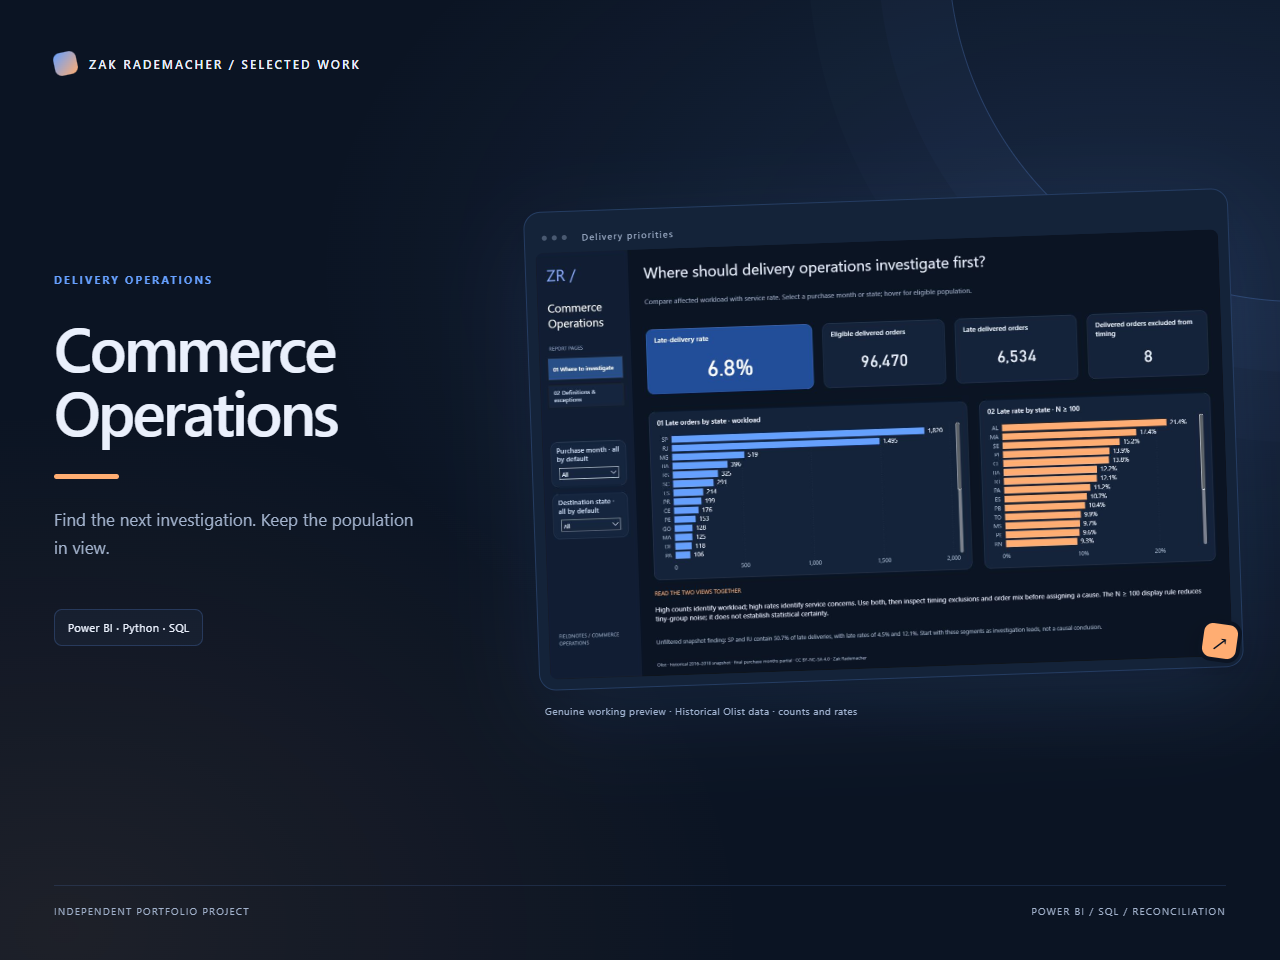
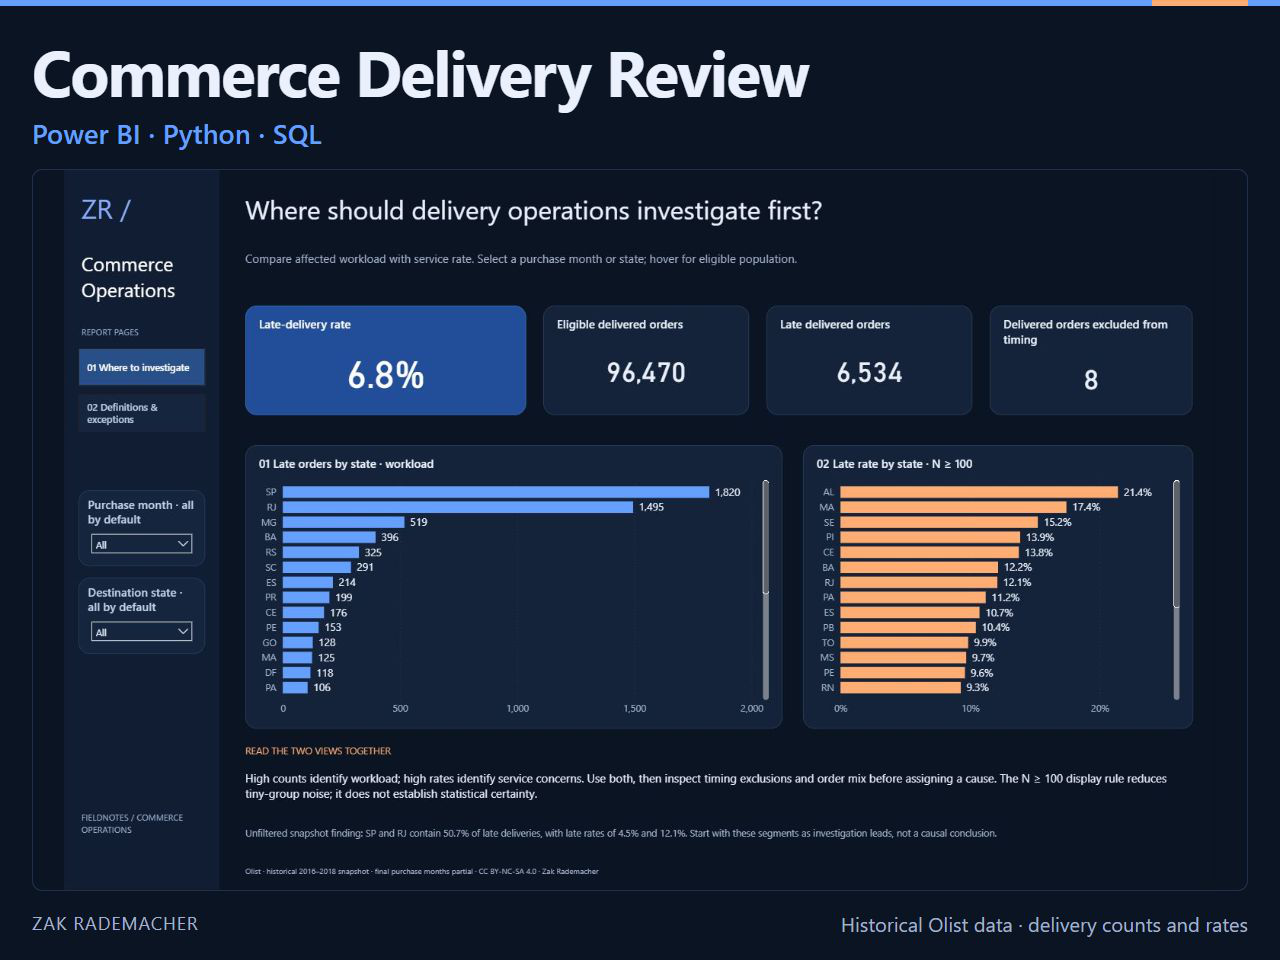
Use a clear, screenshot-led portfolio cover

diff --git a/presentation/cover-template.html b/presentation/cover-template.html
@@ -1,3 +1,3 @@
-<!doctype html><html lang="en"><meta charset="utf-8"><title>@@title@@ — portfolio cover</title><style>
-*{box-sizing:border-box}html,body{margin:0;width:100%;height:100%;overflow:hidden}body{font-family:'Segoe UI',Arial,sans-serif;background:@@canvas@@;color:@@ink@@}.stage{height:100%;padding:52px 54px;position:relative;isolation:isolate;background:radial-gradient(ellipse at 88% 28%,@@primary@@25,transparent 51%),radial-gradient(ellipse at 5% 97%,@@accent@@14,transparent 40%)}.stage:before{content:'';position:absolute;width:700px;height:700px;right:-370px;top:-400px;border:1px solid @@primary@@40;border-radius:50%;box-shadow:0 0 0 70px @@primary@@07,0 0 0 140px @@primary@@04;z-index:-1}.brand{font-size:12px;letter-spacing:2.1px;font-weight:600;display:flex;align-items:center;gap:12px}.brand i{display:block;width:23px;height:23px;background:linear-gradient(140deg,@@primary@@,@@accent@@);border-radius:7px;transform:rotate(-12deg)}main{height:calc(100% - 88px);display:grid;grid-template-columns:39% 61%;align-items:center;gap:20px}.copy{padding-right:25px;animation:copy-in .9s cubic-bezier(.16,.8,.2,1) both}.eyebrow{font-size:11px;color:@@primary@@;font-weight:700;letter-spacing:2px;margin-bottom:28px}h1{font-size:62px;line-height:1.04;font-weight:550;letter-spacing:-2.8px;margin:0 0 26px;max-width:450px}h1:after{content:'';display:block;height:5px;width:65px;border-radius:4px;background:@@accent@@;margin-top:30px}.description{font-size:17px;line-height:1.7;max-width:360px;color:@@muted@@}.format{display:inline-block;margin-top:30px;padding:10px 13px;border:1px solid @@primary@@35;background:@@primary@@0C;border-radius:8px;font-size:11px;letter-spacing:.4px}.frame-wrap{position:relative;perspective:1500px;padding:0 10px 0 0;animation:frame-in 1.1s .1s cubic-bezier(.16,.8,.2,1) both}.frame{padding:10px;border:1px solid @@primary@@35;border-radius:17px;background:@@surface@@;box-shadow:0 30px 85px @@primary@@19,0 4px 14px #00000012;transform:rotate(-2deg)}.chrome{height:30px;display:flex;align-items:center;gap:5px;padding-left:7px}.chrome i{height:5px;width:5px;background:@@muted@@60;border-radius:50%}.chrome span{font-size:9px;letter-spacing:1.2px;margin-left:10px;color:@@muted@@}img{width:100%;max-height:650px;display:block;object-fit:contain;object-position:top;border-radius:8px}.caption{font-size:10px;color:@@muted@@;letter-spacing:.4px;margin:25px 0 0 14px}.tag{position:absolute;right:5px;bottom:56px;width:42px;height:42px;background:@@accent@@;color:@@canvas@@;border:4px solid @@canvas@@;border-radius:13px;display:grid;place-items:center;font-size:23px;box-shadow:0 8px 24px #0002;transform:rotate(8deg)}footer{position:absolute;bottom:42px;left:54px;right:54px;display:flex;justify-content:space-between;border-top:1px solid @@primary@@25;padding-top:18px;font-size:10px;letter-spacing:1.2px;color:@@muted@@}@keyframes copy-in{from{opacity:0;transform:translateY(22px)}to{opacity:1;transform:none}}@keyframes frame-in{from{opacity:0;transform:translate(35px,38px) rotate(5deg) scale(.94)}to{opacity:1;transform:none}}@media(max-height:760px){.stage{padding-top:35px}main{grid-template-columns:39% 61%}h1{font-size:52px}.eyebrow{margin-bottom:22px}.description{font-size:15px}.format{margin-top:15px}img{max-height:455px}footer{bottom:25px}.frame-wrap{padding-left:10px}.caption{margin-top:18px}}@media(prefers-reduced-motion:reduce){*{animation:none!important;transition:none!important}}
-</style><div class="stage"><div class="brand"><i></i>ZAK RADEMACHER / SELECTED WORK</div><main><section class="copy"><div class="eyebrow">@@eyebrow@@</div><h1>@@title@@</h1><p class="description">@@description@@</p><span class="format">@@format@@</span></section><section class="frame-wrap"><div class="frame"><div class="chrome"><i></i><i></i><i></i><span>@@frame_label@@</span></div><img src="@@image_data@@" alt="Genuine rendered project preview"></div><div class="tag" aria-hidden="true">↗</div><p class="caption">Genuine working preview · @@preview_note@@</p></section></main><footer><span>INDEPENDENT PORTFOLIO PROJECT</span><span>@@footer@@</span></footer></div></html>
+<!doctype html><html lang="en"><meta charset="utf-8"><meta name="author" content="Zak Rademacher"><title>@@title@@ — portfolio cover</title><style>
+*{box-sizing:border-box}html,body{margin:0;width:100%;height:100%;overflow:hidden}body{font-family:'Segoe UI',Arial,sans-serif;background:@@canvas@@;color:@@ink@@}.stage{height:100%;padding:30px 32px 22px;display:flex;flex-direction:column;gap:18px;border-top:6px solid @@primary@@;position:relative}.stage:before{content:'';position:absolute;top:-6px;right:32px;width:96px;height:6px;background:@@accent@@}header{flex:none;min-height:115px;display:flex;flex-direction:column;justify-content:center;gap:10px}h1{font-size:64px;line-height:1.08;letter-spacing:-1.8px;font-weight:650;margin:0;white-space:nowrap}.tools{font-size:27px;line-height:1.3;letter-spacing:.2px;color:@@primary@@;font-weight:550;margin:0}.preview{flex:1;min-height:0;display:flex;align-items:center;justify-content:center;overflow:hidden;border:1px solid @@primary@@33;border-radius:10px;background:@@canvas@@}.preview img{display:block;width:100%;height:100%;object-fit:contain;object-position:center}.preview.crop-top img{object-fit:cover;object-position:center top}footer{flex:none;display:flex;align-items:center;justify-content:space-between;gap:20px;height:29px;font-size:20px;line-height:1.3;color:@@muted@@}.name{font-size:18px;letter-spacing:1px;white-space:nowrap}.note{text-align:right}@media(max-height:760px){.stage{padding-top:20px;padding-bottom:15px;gap:12px}header{min-height:92px;gap:6px}h1{font-size:54px}.tools{font-size:24px}footer{font-size:18px;height:24px}.name{font-size:16px}}
+</style><div class="stage"><header><h1>@@title@@</h1><p class="tools">@@format@@</p></header><main class="preview @@preview_mode@@"><img src="@@image_data@@" alt="@@frame_label@@"></main><footer><span class="name">ZAK RADEMACHER</span><span class="note">@@preview_note@@</span></footer></div></html>

diff --git a/docs/VISUAL_DESIGN.md b/docs/VISUAL_DESIGN.md
@@ -33,3 +33,9 @@ Keep source attribution and analytical qualifications in the report. A new scree
 ## A small practice change
 
 In a disposable copy, change one accent in `design-tokens.json`, apply the layout, and verify the control example. Test a supported interaction, then reset it. The appearance should change while the figures and filter definitions stay consistent. Restore the shared palette before portfolio use.
+
+## Portfolio thumbnails
+
+The shared cover uses a large title, a short tool line and a straight-on project screenshot. `presentation/cover.json` selects the existing source image and its scope label; `presentation/cover-template.html` controls the layout. `portfolio-cover.png` is the 1280 × 960 cover used on the GitHub profile and Upwork. `portfolio-cover-wide.png` is the 1280 × 720 variant. The repository README keeps its larger original report or app preview.
+
+Run the existing `python presentation/build_cover.py --workdir <scratch folder>` to regenerate static covers after a source or title change. The template has no decorative entrance animation. Keep the source qualifications when changing a cover.
